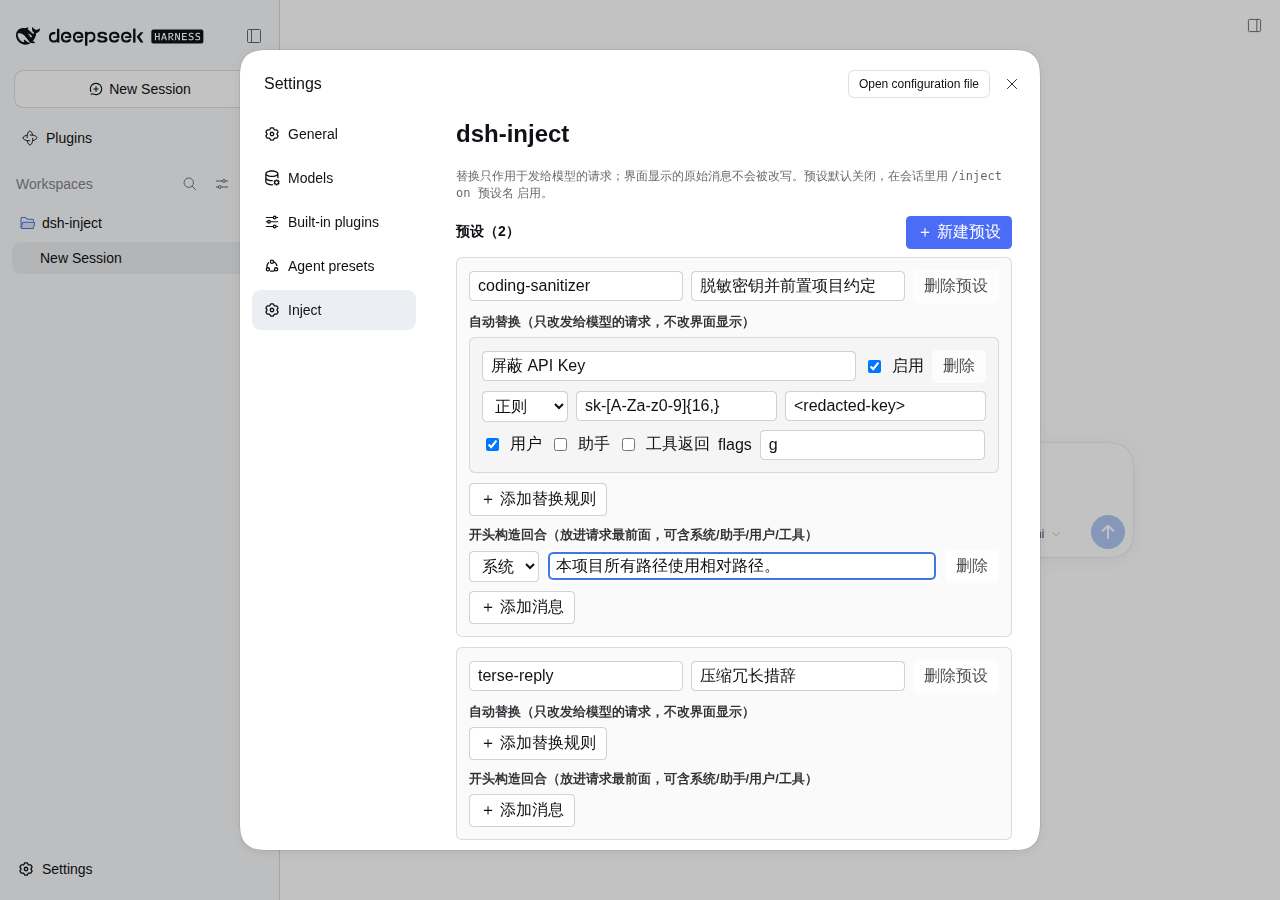
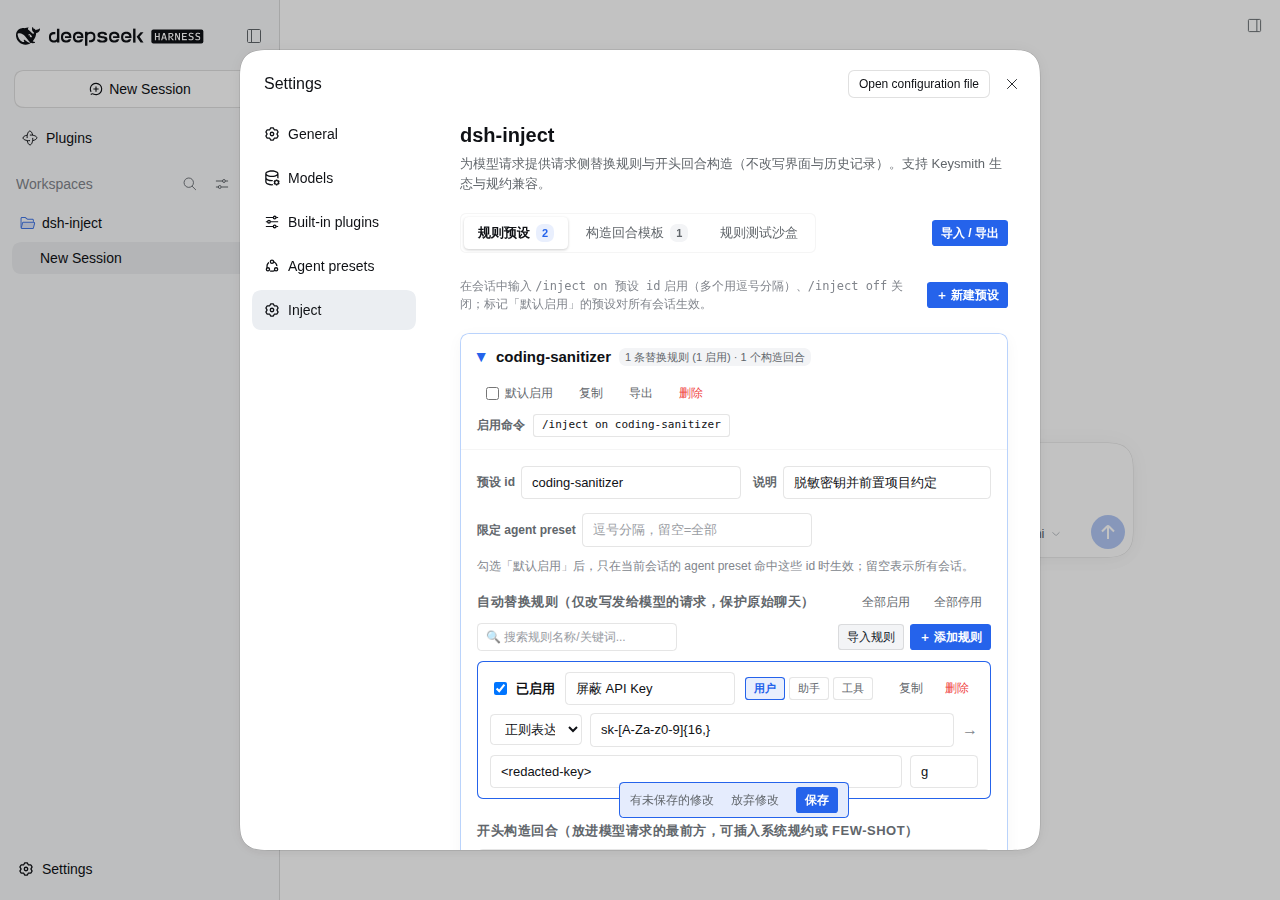
feat(client): label preset fields and give the enable command its own row
- settings-panel.jsx: 预设 id / 说明 / 限定 agent preset 三个字段补上显式标签，
  占位符改为提示语；启用命令移到卡片头部第二行并带标签，头部（除胶囊与按钮外）
  仍整行可折叠
- styles.js: 新增 .inject-field / .inject-field-label / .preset-head-row / .preset-head-command
- e2e: 设置页选点从占位符改为按字段标签定位；修复 screenshot-inject 因「搜索规则」
  框抢占规则名占位符、导致新规则被过滤而不出图的失效
- shots: 按新界面重新生成设置页与现场 dialog 出图

diff --git a/src/client/settings-panel.jsx b/src/client/settings-panel.jsx
@@ -366,53 +366,67 @@ function PresetCard({ preset, takenIds, onChange, onRemove, onClone, onExport, o
   return (
     <div className="inject-preset-card">
       <div className="preset-head-bar" onClick={() => setIsOpen(!isOpen)}>
-        <div className="row" style={{ gap: 10, flex: "1 1 auto" }}>
-          <span className={`preset-toggle-icon ${isOpen ? "open" : ""}`}>▶</span>
-          <div className="preset-head-title">
-            <span>{preset.id || "未命名预设"}</span>
-            <span className="inject-badge" style={{ fontWeight: 500 }}>
-              {rules.length} 条替换规则 ({activeCount} 启用) · {turns.length} 个构造回合
-            </span>
-          </div>
-        </div>
+        <div className="col grow" style={{ gap: 8 }}>
+          <div className="preset-head-row">
+            <div className="row" style={{ gap: 10, flex: "1 1 auto" }}>
+              <span className={`preset-toggle-icon ${isOpen ? "open" : ""}`}>▶</span>
+              <div className="preset-head-title">
+                <span>{preset.id || "未命名预设"}</span>
+                <span className="inject-badge" style={{ fontWeight: 500 }}>
+                  {rules.length} 条替换规则 ({activeCount} 启用) · {turns.length} 个构造回合
+                </span>
+              </div>
+            </div>
 
-        <div className="row" style={{ gap: 8 }} onClick={e => e.stopPropagation()}>
-          <label
-            className={`inject-default-toggle ${preset.defaultEnabled ? "on" : ""}`}
-            title="勾选后默认启用本预设；可在展开区用「限定 agent preset」缩小范围（会话内仍可 /inject off 单独关闭）"
-          >
-            <input
-              type="checkbox"
-              checked={preset.defaultEnabled === true}
-              onChange={e => patch({ defaultEnabled: e.target.checked })}
-            />
-            默认启用
-          </label>
-          <CommandPill command={`/inject on ${preset.id}`} />
-          <button type="button" className="ghost sm" onClick={onClone} title="克隆预设">复制</button>
-          <button type="button" className="ghost sm" onClick={onExport} title="导出 JSON">导出</button>
-          <ConfirmButton label="删除" confirmLabel="确定删除预设？" onConfirm={onRemove} />
+            <div className="row" style={{ gap: 8 }} onClick={e => e.stopPropagation()}>
+              <label
+                className={`inject-default-toggle ${preset.defaultEnabled ? "on" : ""}`}
+                title="勾选后默认启用本预设；可在展开区用「限定 agent preset」缩小范围（会话内仍可 /inject off 单独关闭）"
+              >
+                <input
+                  type="checkbox"
+                  checked={preset.defaultEnabled === true}
+                  onChange={e => patch({ defaultEnabled: e.target.checked })}
+                />
+                默认启用
+              </label>
+              <button type="button" className="ghost sm" onClick={onClone} title="克隆预设">复制</button>
+              <button type="button" className="ghost sm" onClick={onExport} title="导出 JSON">导出</button>
+              <ConfirmButton label="删除" confirmLabel="确定删除预设？" onConfirm={onRemove} />
+            </div>
+          </div>
+
+          <div className="preset-head-command">
+            <span className="inject-field-label">启用命令</span>
+            <CommandPill command={`/inject on ${preset.id}`} />
+          </div>
         </div>
       </div>
 
       {isOpen && (
         <div className="preset-body">
-          <div className="row" style={{ gap: 10, marginBottom: 14, flexWrap: "wrap" }}>
-            <input
-              type="text"
-              style={{ width: 260 }}
-              value={preset.id ?? ""}
-              onChange={e => patch({ id: e.target.value.replace(/[\s,，/\\]+/g, "-") })}
-              onBlur={e => patch({ id: safeId(e.target.value) })}
-              placeholder="预设 id（/inject 使用）"
-            />
-            <input
-              type="text"
-              className="grow"
-              value={preset.description ?? ""}
-              onChange={e => patch({ description: e.target.value })}
-              placeholder="说明（可选）"
-            />
+          <div className="row" style={{ gap: 12, marginBottom: 14, flexWrap: "wrap" }}>
+            <label className="inject-field shrink-0">
+              <span className="inject-field-label">预设 id</span>
+              <input
+                type="text"
+                style={{ width: 220 }}
+                value={preset.id ?? ""}
+                onChange={e => patch({ id: e.target.value.replace(/[\s,，/\\]+/g, "-") })}
+                onBlur={e => patch({ id: safeId(e.target.value) })}
+                placeholder="/inject 使用的句柄"
+              />
+            </label>
+            <label className="inject-field grow">
+              <span className="inject-field-label">说明</span>
+              <input
+                type="text"
+                className="grow"
+                value={preset.description ?? ""}
+                onChange={e => patch({ description: e.target.value })}
+                placeholder="可选，一句话描述用途"
+              />
+            </label>
             {(!preset.id || takenIds.includes(preset.id)) && (
               <span className="hint-text" style={{ flexBasis: "100%", margin: 0, color: "var(--inject-danger)" }}>
                 {preset.id ? "该 id 已被其他预设占用" : "id 不能为空"}
@@ -421,14 +435,17 @@ function PresetCard({ preset, takenIds, onChange, onRemove, onClone, onExport, o
           </div>
 
           <div className="row" style={{ gap: 10, marginBottom: 14, flexWrap: "wrap", alignItems: "center" }}>
-            <input
-              type="text"
-              style={{ width: 260 }}
-              value={agentScope}
-              onChange={e => setAgentScope(e.target.value)}
-              onBlur={() => patch({ agentPresets: agentScope.split(/[\s,，]+/).filter(Boolean) })}
-              placeholder="限定 agent preset（逗号分隔，留空=全部）"
-            />
+            <label className="inject-field shrink-0">
+              <span className="inject-field-label">限定 agent preset</span>
+              <input
+                type="text"
+                style={{ width: 230 }}
+                value={agentScope}
+                onChange={e => setAgentScope(e.target.value)}
+                onBlur={() => patch({ agentPresets: agentScope.split(/[\s,，]+/).filter(Boolean) })}
+                placeholder="逗号分隔，留空=全部"
+              />
+            </label>
             <span className="hint-text" style={{ margin: 0 }}>
               勾选「默认启用」后，只在当前会话的 agent preset 命中这些 id 时生效；留空表示所有会话。
             </span>

diff --git a/src/client/styles.js b/src/client/styles.js
@@ -208,6 +208,13 @@ body[data-ds-dark-theme] .dsh-inject,
   font-size: 15px; font-weight: 600; color: var(--inject-text-primary);
   display: flex; align-items: center; gap: 8px; flex-wrap: wrap;
 }
+.dsh-inject .preset-head-row {
+  display: flex; align-items: center; justify-content: space-between;
+  gap: 12px; flex-wrap: wrap;
+}
+.dsh-inject .preset-head-command {
+  display: flex; align-items: center; gap: 8px; flex-wrap: wrap;
+}
 .dsh-inject .preset-body {
   padding: 16px; border-top: 1px solid var(--inject-border-subtle);
   background: var(--inject-bg-base);
@@ -365,6 +372,12 @@ body[data-ds-dark-theme] .dsh-inject,
 }
 .dsh-inject .hint-text {
   font-size: 12px; color: var(--inject-text-tertiary); margin: 4px 0;
+}
+
+/* 表单字段与其标签 */
+.dsh-inject .inject-field { display: inline-flex; align-items: center; gap: 6px; }
+.dsh-inject .inject-field-label {
+  font-size: 12px; font-weight: 600; color: var(--inject-text-secondary); white-space: nowrap;
 }
 
 /* 沙盒 Playground 面板 */
